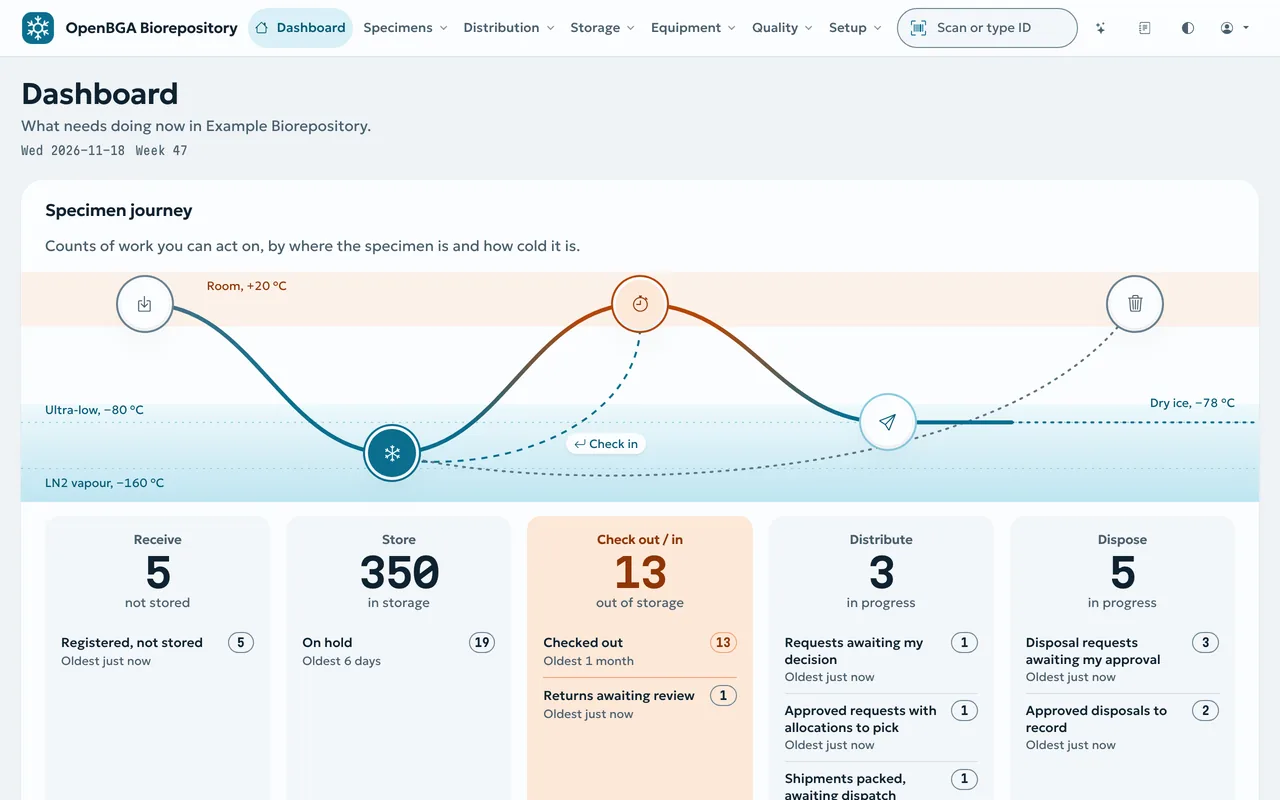
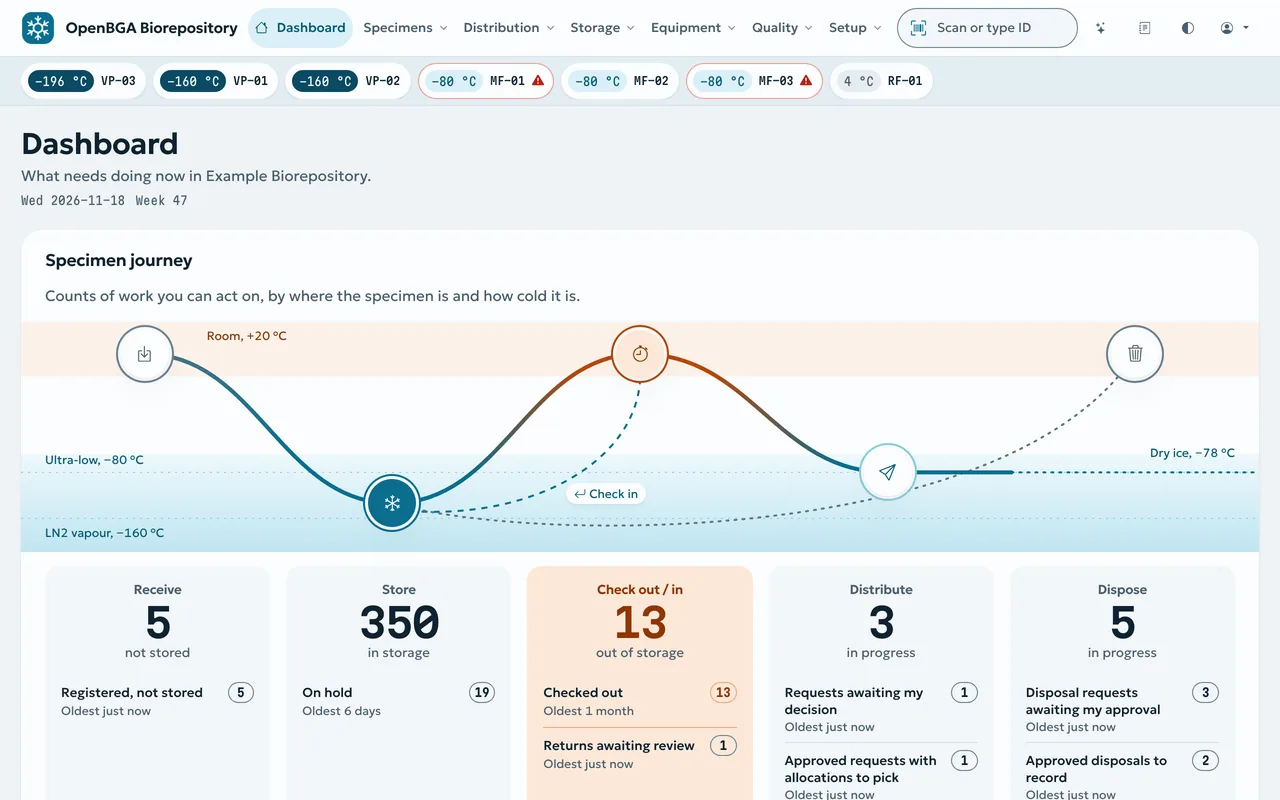
Retake website and README screenshots in the new look

diff --git a/website/about/index.html b/website/about/index.html
@@ -77,7 +77,7 @@
                srcset="assets/dashboard-1280.webp 1280w, assets/dashboard-2560.webp 2560w"
                sizes="(min-width: 1240px) 1160px, 92vw"
                width="1280" height="800" fetchpriority="high"
-               alt="The dashboard of the repository manager: the specimen journey drawn as a temperature profile, from room temperature down into storage, up again when checked out and on to dry ice or disposal, above five stations with their work: five specimens not stored, 350 in storage with 19 on hold, 13 checked out with the oldest out for a month, and three distributions and five disposals in progress.">
+               alt="The dashboard of the repository manager: the specimen journey drawn as a temperature profile, from room temperature down into storage, up again when checked out and on to dry ice or disposal, above five stations with their work: five specimens not stored, 350 in storage with 19 on hold, 13 checked out with the oldest out for a month, and three distributions and five disposals in progress. Above it, a strip of the storage units with their temperatures, two flagged with an open excursion.">
           <figcaption>The dashboard of the staff workspace. Every screen on this page shows synthetic demo data.</figcaption>
         </figure>
       </div>
@@ -129,7 +129,7 @@
           </div>
           <figure class="shot">
             <img src="assets/box-1280.webp" width="1280" height="800" loading="lazy" decoding="async"
-                 alt="A ten by ten cryobox shown as a position map: sixteen occupied positions in the top rows with gaps where specimens were checked out or disposed of, and eighty-four free positions, above the list of occupied positions with their storage keys.">
+                 alt="A ten by ten cryobox shown as a position map under its storage path from site to box: sixteen occupied positions in the top rows, three of them on hold, with gaps where specimens were checked out or disposed of, and eighty-four free positions, above the list of occupied positions.">
             <figcaption>A cryobox in tank VP-01. Gaps are specimens that are checked out or were disposed of.</figcaption>
           </figure>
         </div>

diff --git a/README.md b/README.md
@@ -77,13 +77,13 @@ append-only and specimens are never deleted. [Workflow rules and limits](docs/wo
 describes each of these in more detail, and what is not built: requester accounts, monitoring and
 alarms come later (see [product scope](docs/product.md)).
 
-![Dashboard with the work queues: check-outs in progress, specimens waiting for a position, holds and disposal requests](docs/images/dashboard.png)
+![Dashboard: the specimen journey from receipt through storage and check-out to distribution or disposal, with the work waiting at each stage, under the storage units' temperatures](docs/images/dashboard.png)
 
-![A cryobox as a position map: occupied, free and blocked positions](docs/images/box.png)
+![A cryobox as a position map under its storage path: occupied, on-hold and free positions](docs/images/box.png)
 
 ![A specimen record with its custody events and thaw records](docs/images/specimen.png)
 
-![A liquid-nitrogen tank's equipment record: limits, service events, LN2 log and readings](docs/images/equipment.png)
+![A liquid-nitrogen tank's equipment record: its facts, limits and due dates, with links to service events, LN2 log, readings and excursions](docs/images/equipment.png)
 
 ![A specimen request with its progress panel: prepared, decided and allocated, with specimens picked and a shipment in preparation](docs/images/request.png)
 
